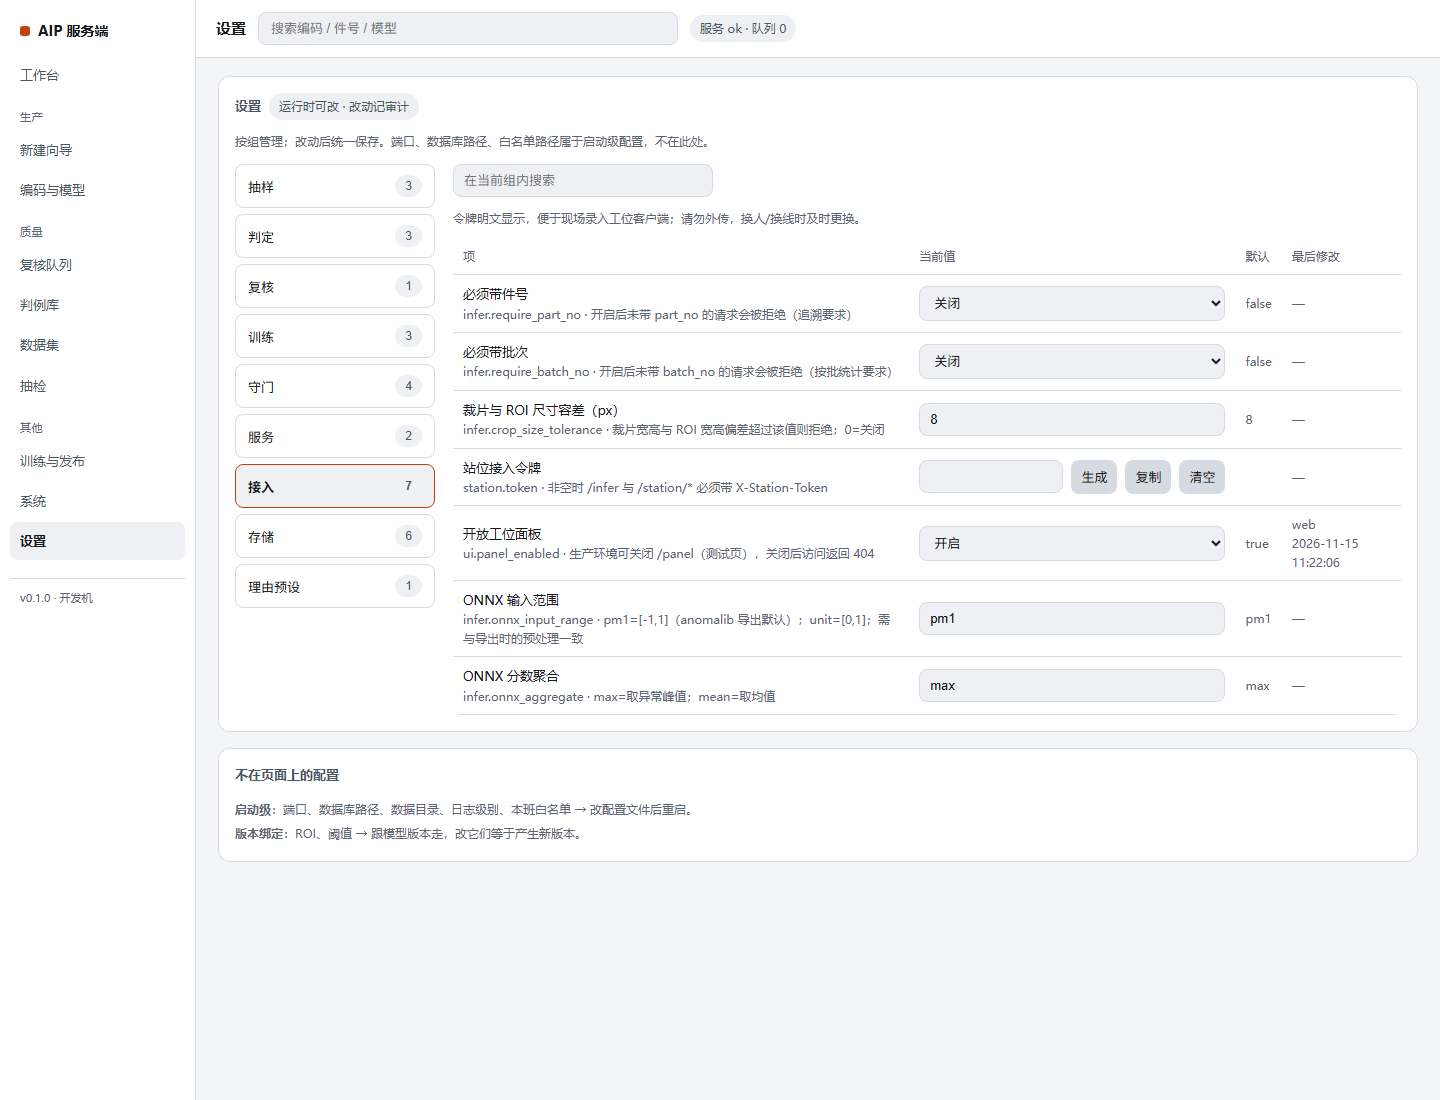
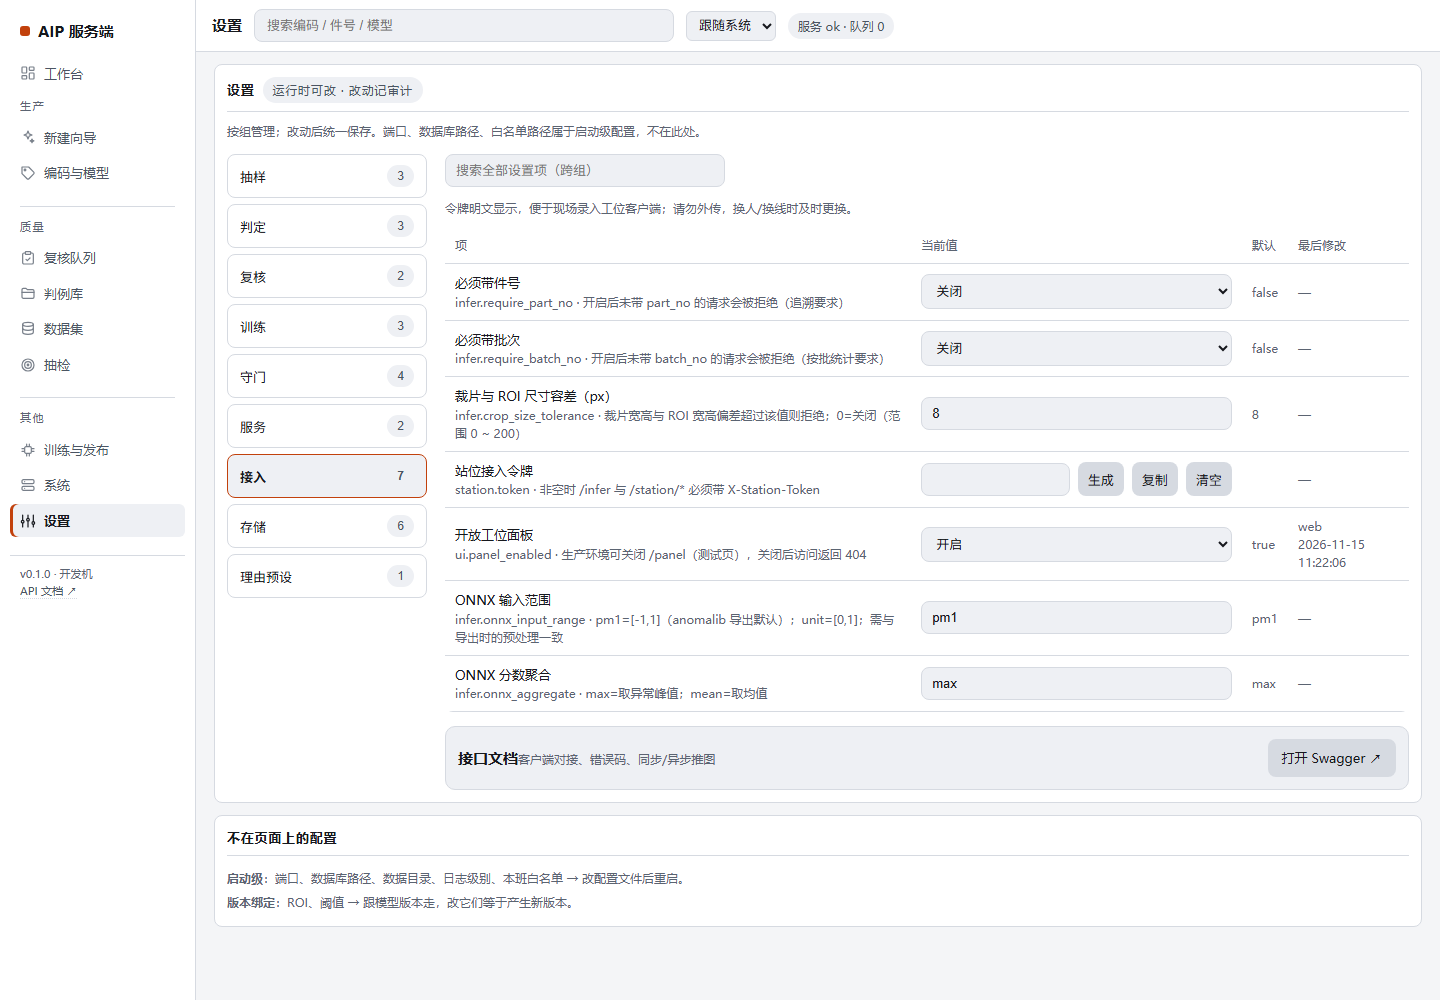
feat: API 文档入口（侧栏底部 + 设置·接入）

diff --git a/aip/web/admin.html b/aip/web/admin.html
@@ -52,6 +52,8 @@
   nav .group{margin:16px 10px 6px;padding-top:12px;border-top:1px solid var(--g3);font-size:11px;color:var(--t3);letter-spacing:.14em}
   nav .group:first-of-type{border-top:0;padding-top:0;margin-top:8px}
   .side-foot{margin-top:18px;padding:10px;border-top:1px solid var(--g3);font-size:11px;color:var(--t3)}
+  .side-foot a{color:var(--t2);text-decoration:none;border-bottom:1px dotted var(--g3)}
+  .side-foot a:hover{color:var(--t1)}
 
   header{display:flex;align-items:center;gap:12px;padding:9px 16px;background:var(--g1);border-bottom:1px solid var(--g3);position:sticky;top:0;z-index:4}
   header h1{font-size:15px;margin:0;font-weight:600;white-space:nowrap}
@@ -297,7 +299,7 @@
       <a href="#/system" data-nav="system"><svg class="nav-ico" viewBox="0 0 24 24" fill="none" stroke="currentColor" stroke-width="1.8" stroke-linecap="round" stroke-linejoin="round" aria-hidden="true"><rect x="3" y="4" width="18" height="6" rx="2"/><rect x="3" y="14" width="18" height="6" rx="2"/><path d="M7 7h.01M7 17h.01"/></svg>系统</a>
       <a href="#/settings" data-nav="settings"><svg class="nav-ico" viewBox="0 0 24 24" fill="none" stroke="currentColor" stroke-width="1.8" stroke-linecap="round" stroke-linejoin="round" aria-hidden="true"><path d="M4 21v-6M4 11V3M12 21v-9M12 8V3M20 21v-4M20 13V3"/><circle cx="4" cy="13" r="2"/><circle cx="12" cy="10" r="2"/><circle cx="20" cy="15" r="2"/></svg>设置</a>
     </nav>
-    <div class="side-foot">v0.1.0 · 开发机</div>
+    <div class="side-foot">v0.1.0 · 开发机<br><a href="/docs" target="_blank" rel="noopener">API 文档 ↗</a></div>
   </aside>
 
   <div>
@@ -1472,6 +1474,12 @@ async function renderSettings() {
       </details>
     </div>` : "";
 
+  const accessPanel = group === "接入" ? `
+    <div class="cache-actions">
+      <div><b>接口文档</b><span class="muted" style="margin-left:8px">客户端对接、错误码、同步/异步推图</span></div>
+      <a class="ghost" href="/docs" target="_blank" rel="noopener">打开 Swagger ↗</a>
+    </div>` : "";
+
   const cachePanel = group === "服务" ? `
     <div class="cache-actions">
       <div><b>模型缓存</b><span class="muted" id="cacheInfo">读取中…</span></div>
@@ -1531,6 +1539,7 @@ async function renderSettings() {
                 </tr>`;
               }).join("")}
             </tbody></table>
+          ${accessPanel}
           ${cachePanel}
           ${storagePanel}
         </div>
